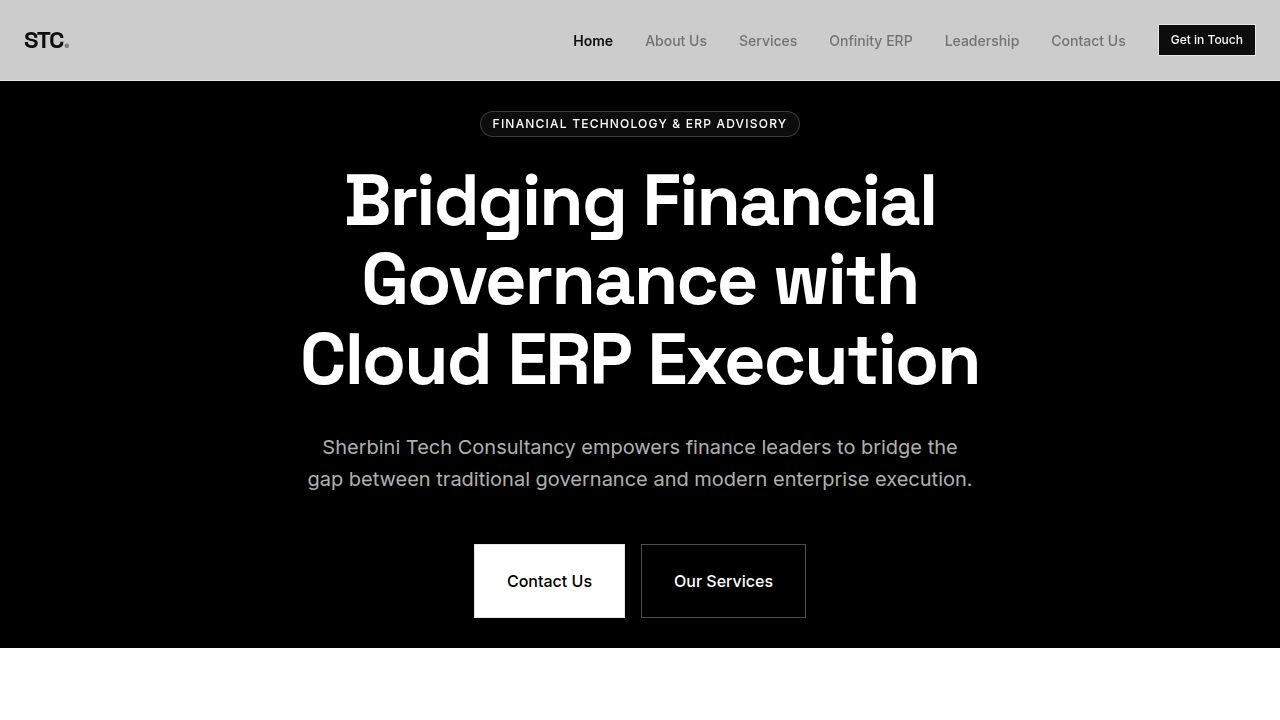
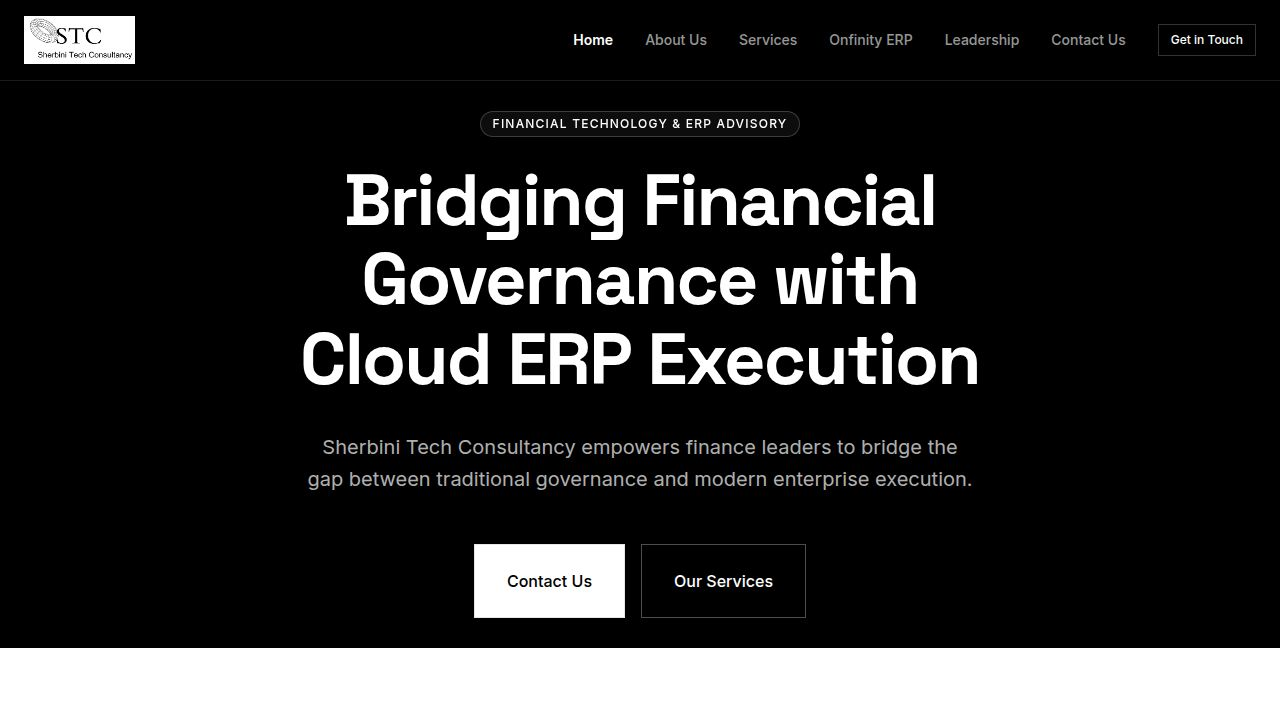
Update navigation bar and footer to black with white text
Adjusts Navbar component styling to use black background and white text, modifies "Get in Touch" button to outline style, and updates mobile toggle and menu colors.

Replit-Commit-Author: Agent
Replit-Commit-Session-Id: 8898b491-cd47-44b4-bea7-5a74773c0546
Replit-Commit-Checkpoint-Type: full_checkpoint
Replit-Commit-Event-Id: 9f120782-a52c-4835-be8b-a7a3fe6ec2a9
Replit-Commit-Screenshot-Url: https://storage.googleapis.com/screenshot-production-us-central1/dad3ff51-a5a8-4a84-a497-a69b82fb20dc/8898b491-cd47-44b4-bea7-5a74773c0546/A0uCbWI
Replit-Helium-Checkpoint-Created: true

Changed region(s): [[0.0, 0.0, 1.0, 0.1222]]

diff --git a/client/src/components/layout/Navbar.tsx b/client/src/components/layout/Navbar.tsx
@@ -20,13 +20,13 @@ export function Navbar() {
   ];
 
   return (
-    <nav className="fixed top-0 w-full z-50 bg-background/80 backdrop-blur-md border-b border-border">
+    <nav className="fixed top-0 w-full z-50 bg-black text-white border-b border-white/10">
       <div className="container mx-auto px-6 h-20 flex items-center justify-between">
         <Link href="/" className="flex items-center gap-2 hover:opacity-80 transition-opacity">
           <img 
             src={logo} 
             alt="STC Logo" 
-            className="h-12 w-auto invert dark:invert-0" 
+            className="h-12 w-auto dark:invert-0" 
           />
         </Link>
 
@@ -37,17 +37,17 @@ export function Navbar() {
               key={link.href} 
               href={link.href}
               className={cn(
-                "text-sm font-medium transition-colors hover:text-primary cursor-pointer",
+                "text-sm font-medium transition-colors hover:text-white/70 cursor-pointer",
                 location === link.href
-                  ? "text-primary font-semibold"
-                  : "text-muted-foreground"
+                  ? "text-white font-semibold"
+                  : "text-white/60"
               )}
             >
               {link.label}
             </Link>
           ))}
           <Link href="/contact">
-            <Button variant="default" size="sm" className="rounded-none cursor-pointer">
+            <Button variant="outline" size="sm" className="rounded-none cursor-pointer border-white/20 text-white hover:bg-white hover:text-black">
               Get in Touch
             </Button>
           </Link>
@@ -55,7 +55,7 @@ export function Navbar() {
 
         {/* Mobile Toggle */}
         <button
-          className="md:hidden text-primary"
+          className="md:hidden text-white"
           onClick={() => setIsOpen(!isOpen)}
         >
           {isOpen ? <X /> : <Menu />}
@@ -64,12 +64,12 @@ export function Navbar() {
 
       {/* Mobile Menu */}
       {isOpen && (
-        <div className="md:hidden absolute top-20 left-0 w-full bg-background border-b border-border p-6 flex flex-col gap-4 animate-in slide-in-from-top-5">
+        <div className="md:hidden absolute top-20 left-0 w-full bg-black border-b border-white/10 p-6 flex flex-col gap-4 animate-in slide-in-from-top-5">
           {links.map((link) => (
             <Link 
               key={link.href} 
               href={link.href}
-              className="text-lg font-medium py-2 border-b border-border/50 block cursor-pointer"
+              className="text-lg font-medium py-2 border-b border-white/10 block cursor-pointer text-white/80"
               onClick={() => setIsOpen(false)}
             >
               {link.label}
